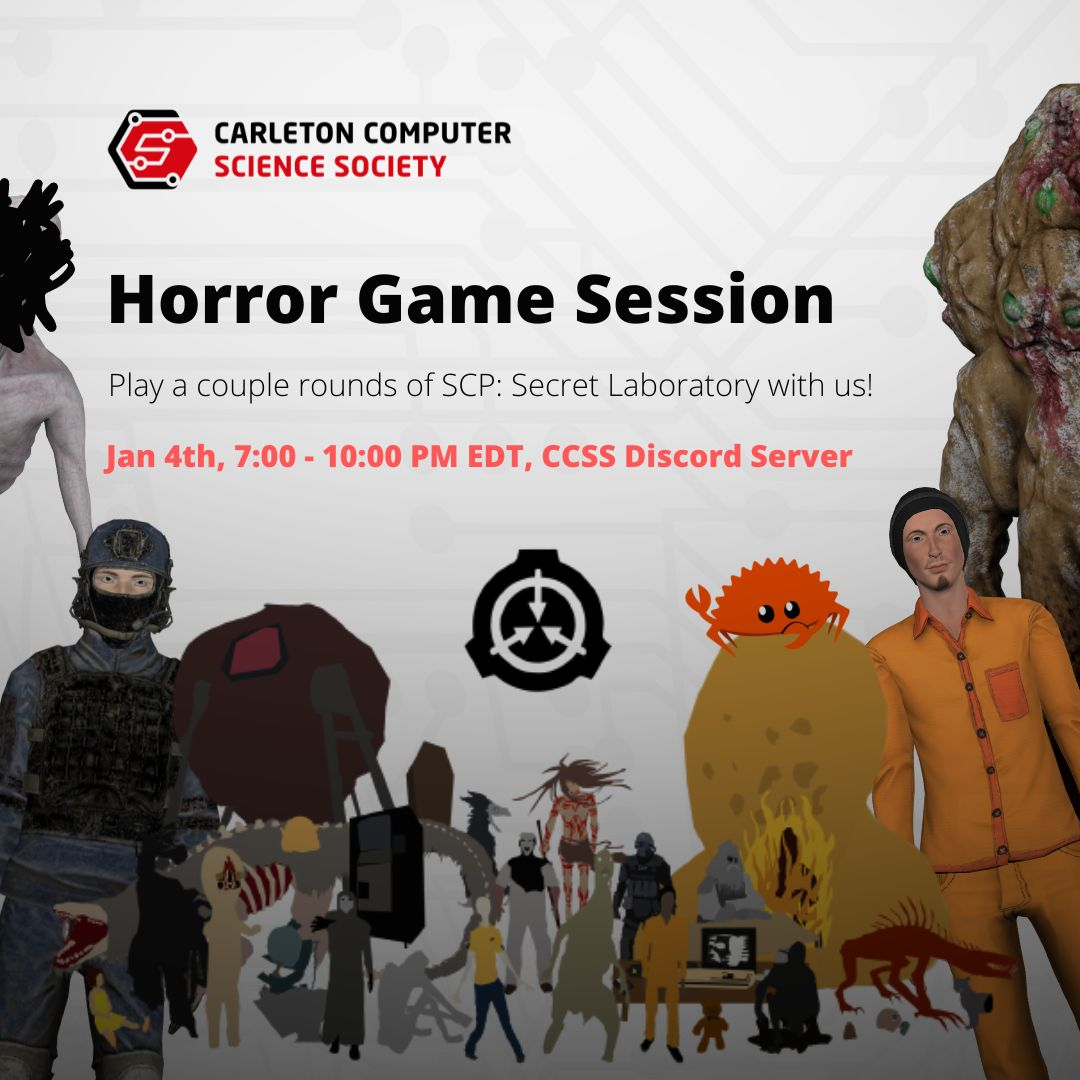
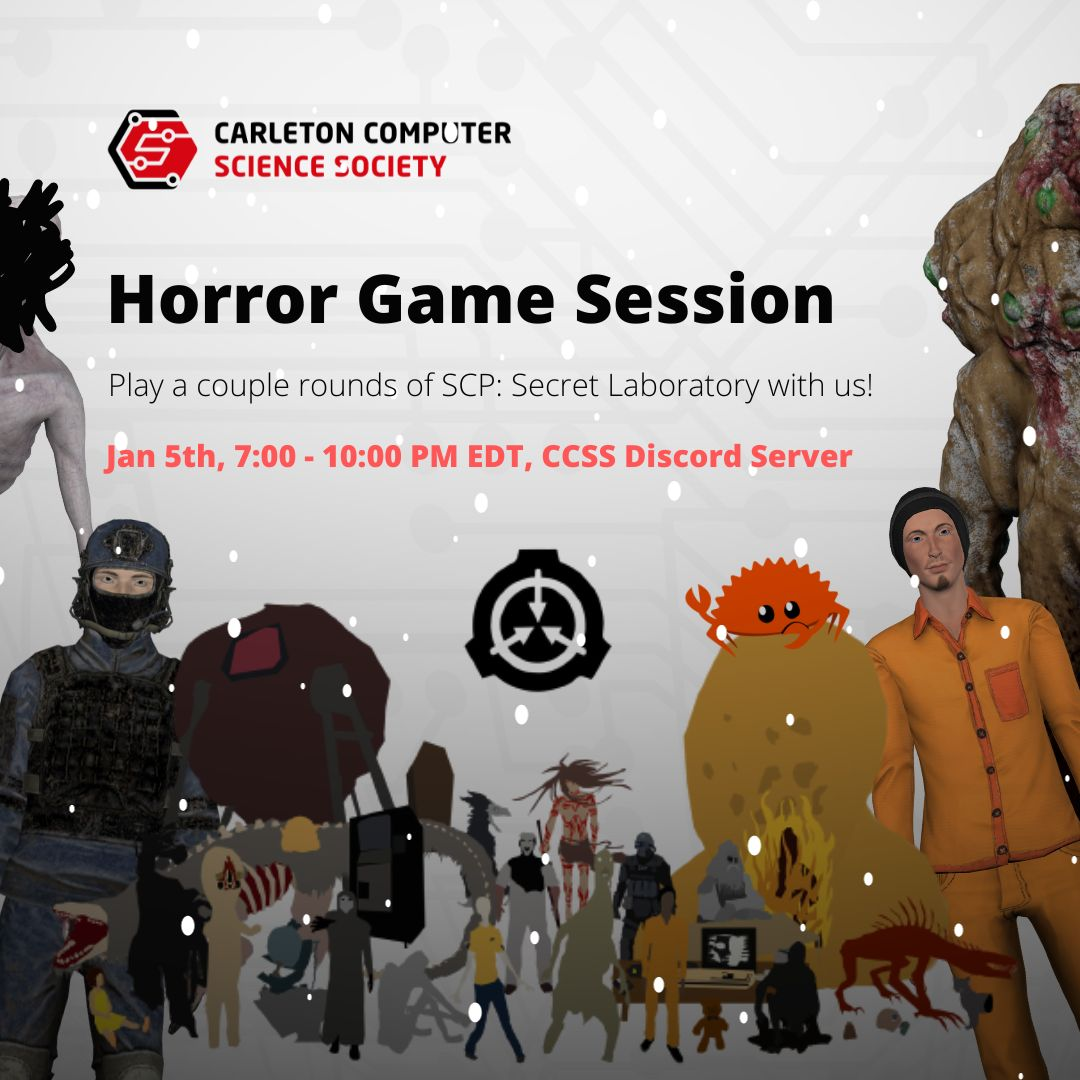
poster and time updates/jl

diff --git a/content/events/2023-2024/2024-01-05-horror-game-session-2.md b/content/events/2023-2024/2024-01-05-horror-game-session-2.md
@@ -1,7 +1,7 @@
 ---
 display_title: "Horror Game Session"
 title: "Horror Game Session"
-date: 2024-01-04T00:00:00Z
+date: 2024-01-05T00:00:00Z
 draft: false
 layout: event
 poster: "images/event_posters/2023-2024/scp_secret_laboratory_2.jpg"
@@ -12,7 +12,7 @@ start_time: "7:00 - 10:00 PM EST"
 location: "CCSS Discord"
 location_link: "https://discord.gg/B3cdnfX3rh"
 background: "images/orientation2018-min.jpeg"
-publishdate: 2023-12-04
+publishdate: 2023-12-05
 ---
 ## Link to Downloading Game
 

diff --git a/content/events/2023-2024/2024-01-22-cross-club-potluck-&-board-games.md b/content/events/2023-2024/2024-01-22-cross-club-potluck-&-board-games.md
@@ -4,7 +4,7 @@ title: "Cross-Club Potluck & Board Games"
 date: 2024-01-22T00:00:00Z
 draft: false
 layout: event
-poster: "images/event_posters/2023-2024/cross_club_potluck_&_board_games.jpg"
+poster: "images/event_posters/2023-2024/cross_club_potluck_&_board_games_night.jpg"
 poster_cover: "contain"
 poster_position: "center"
 short_description: "Eat a hearty meal while playing board games in a multi-club collab"
